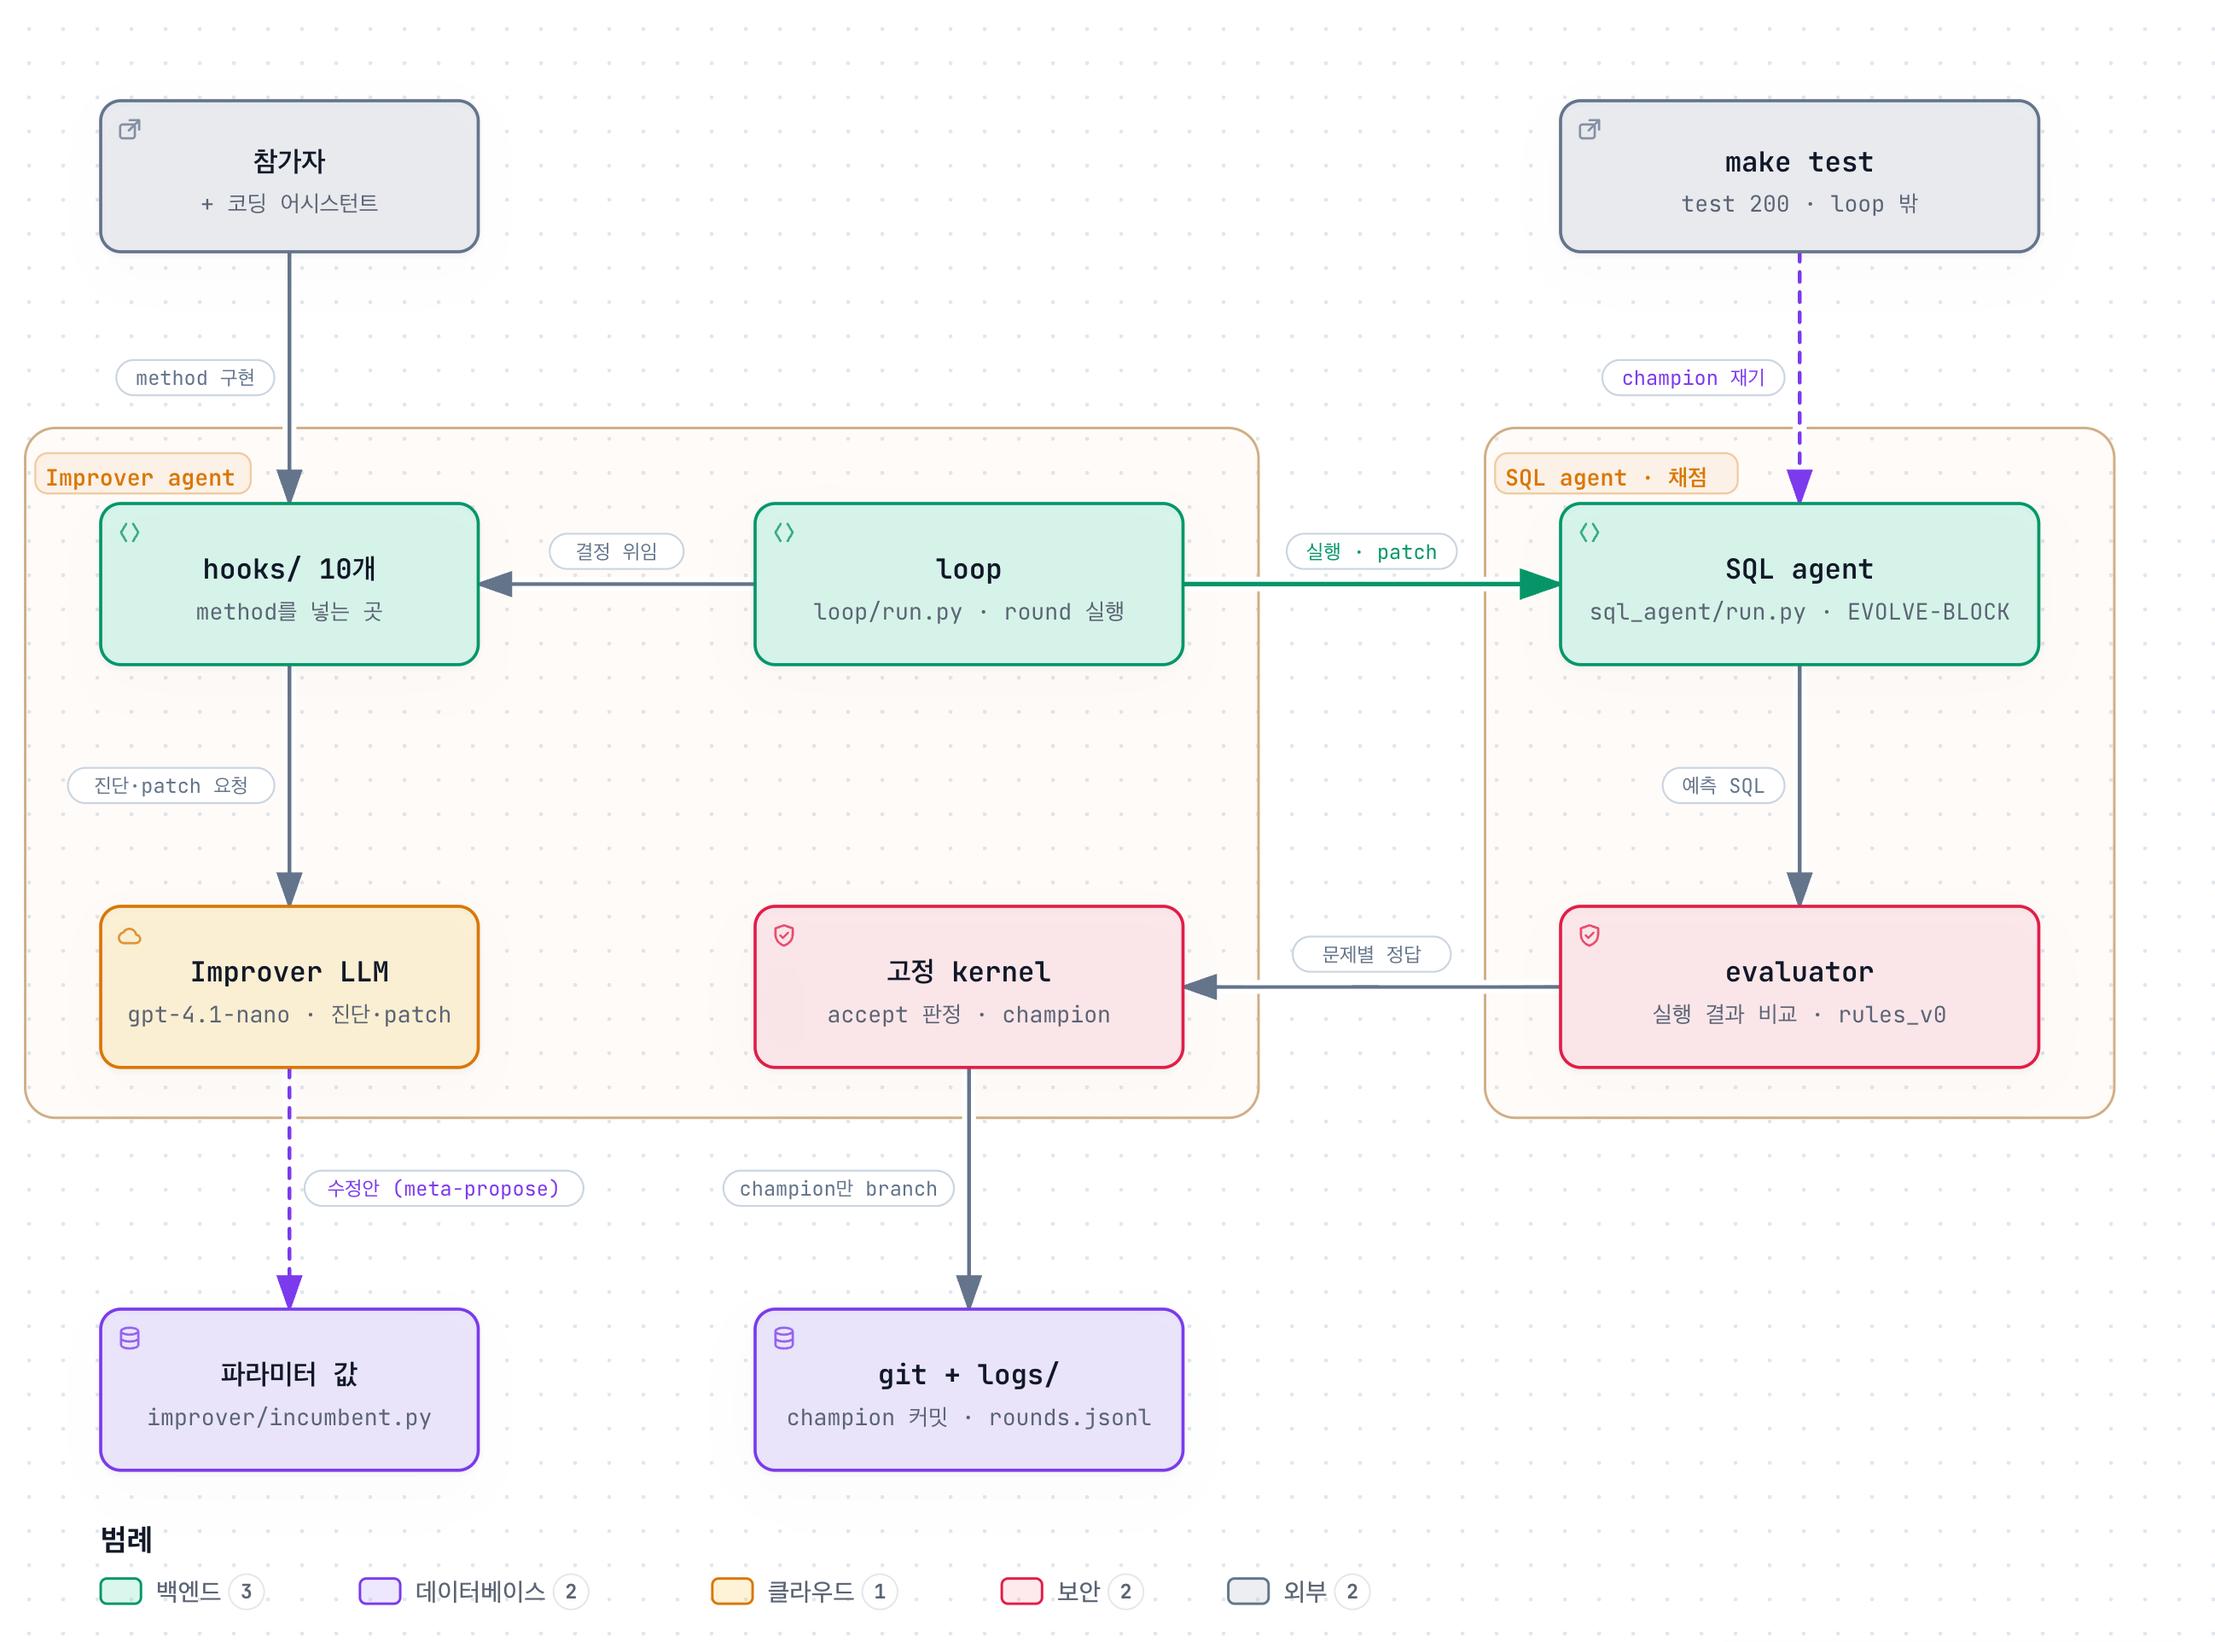
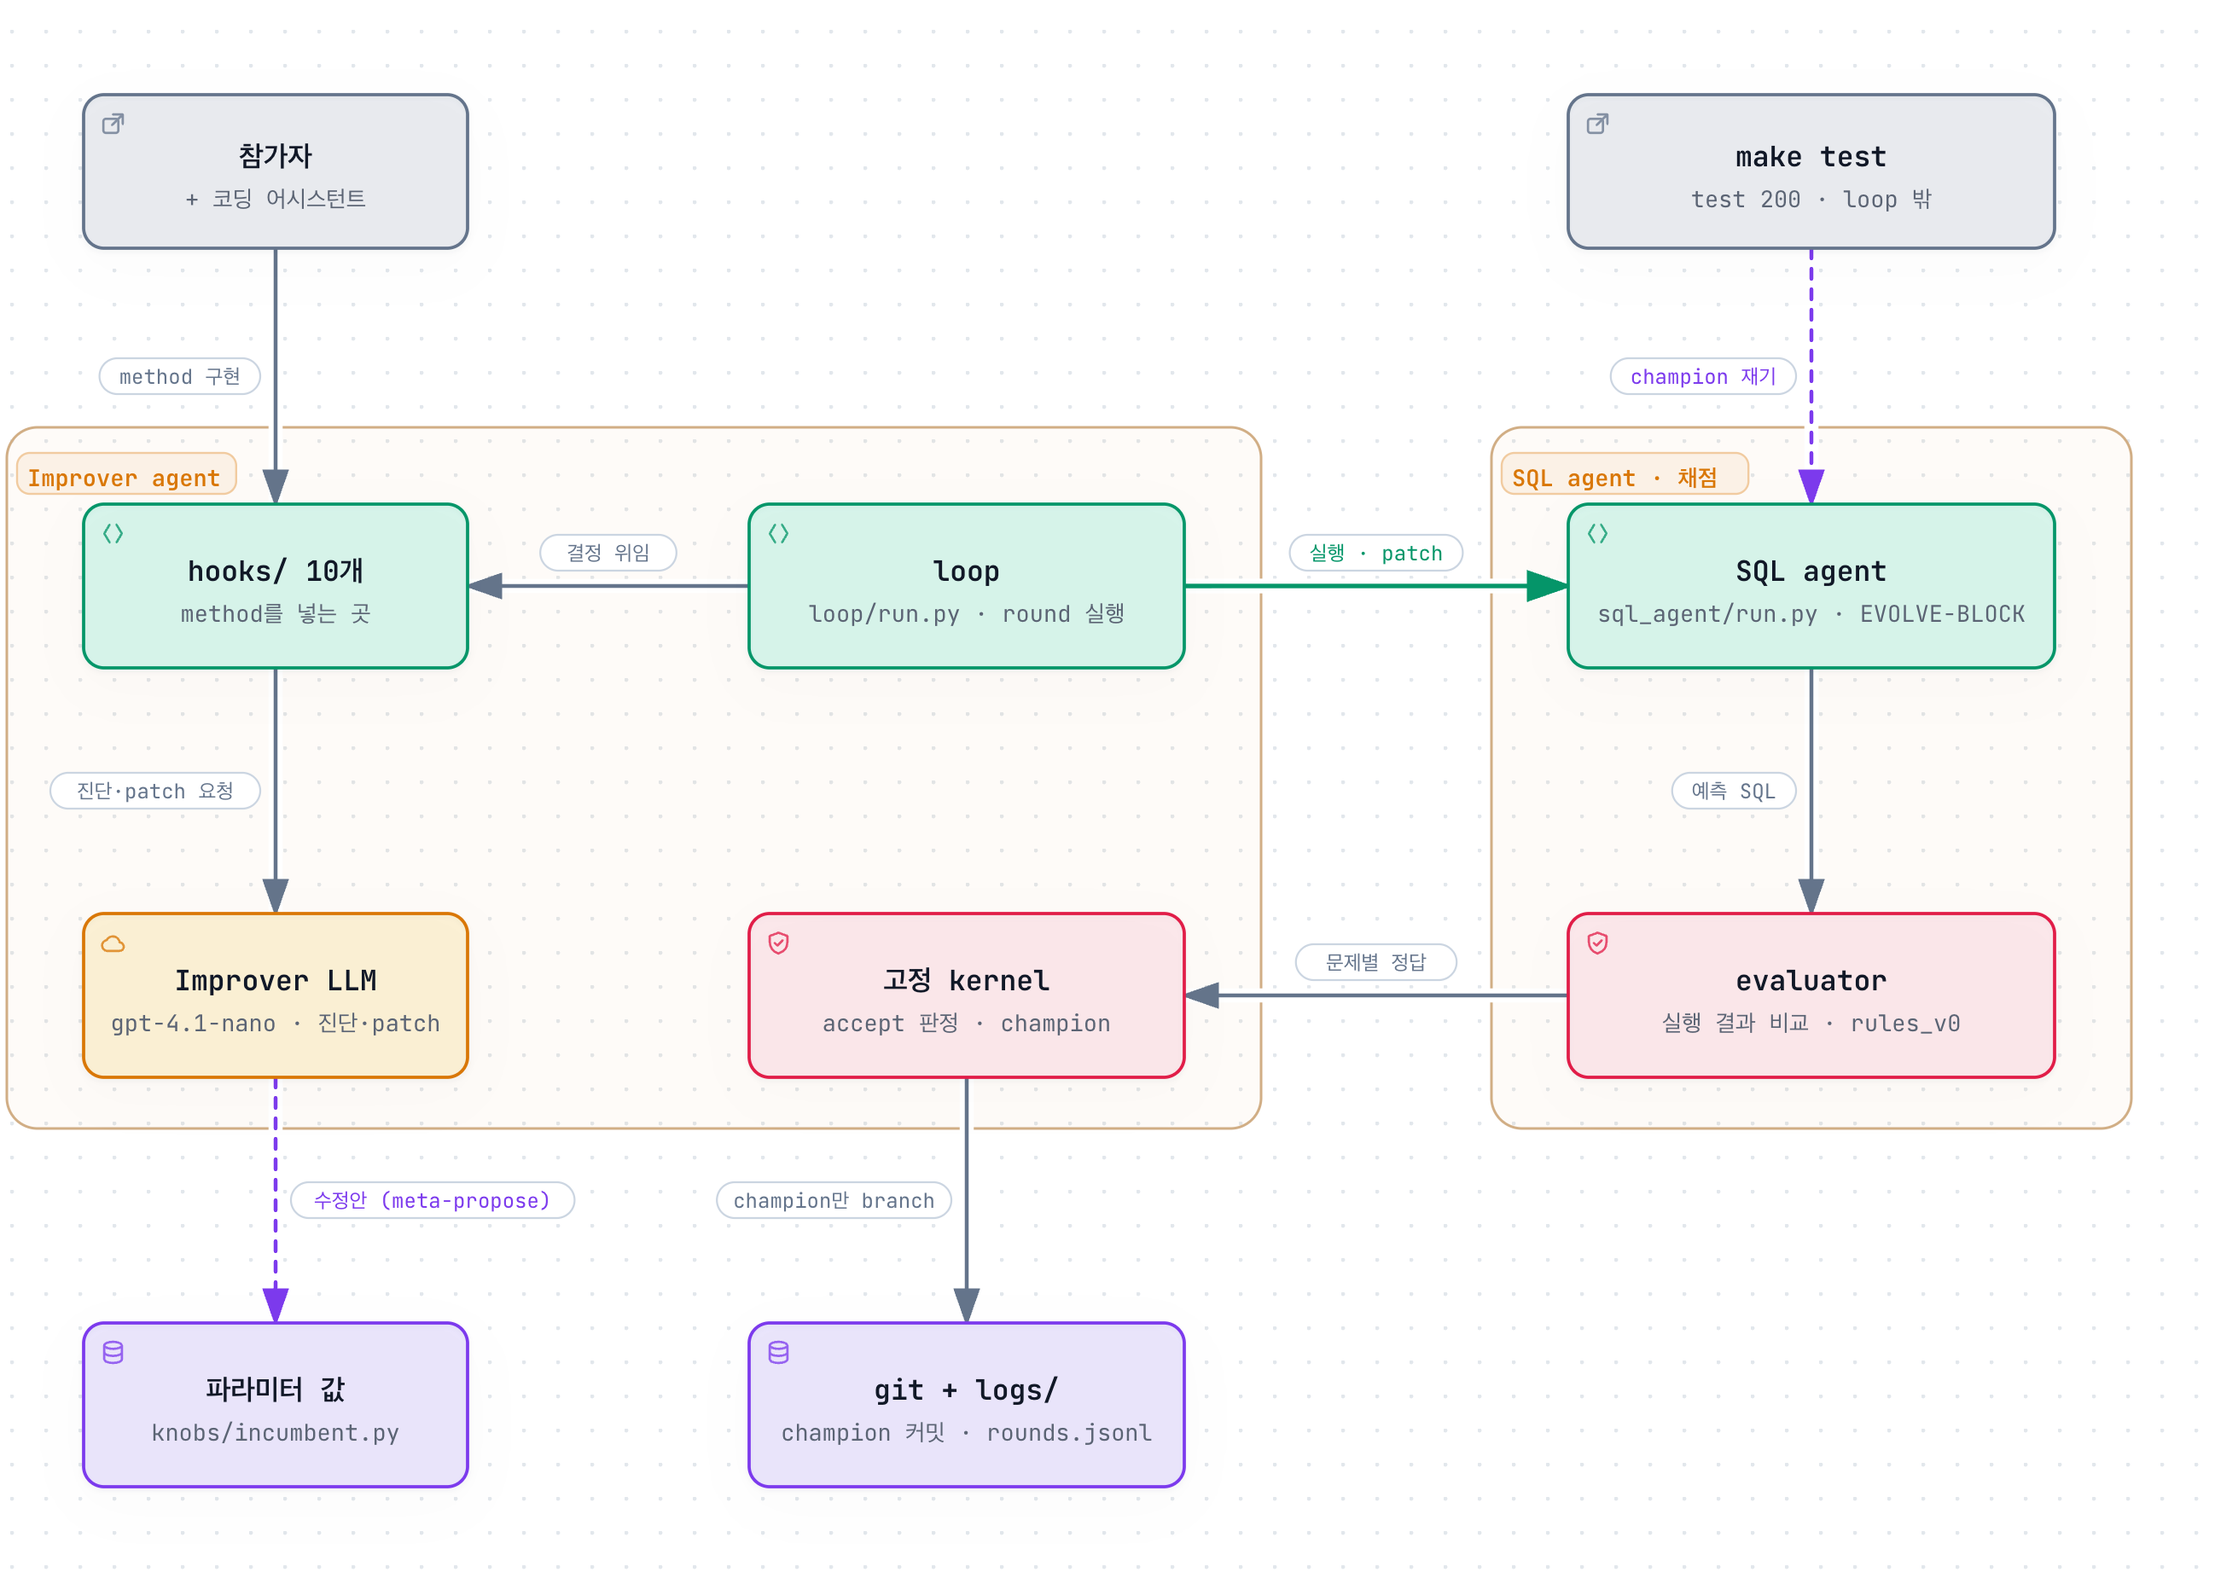
README·그림: knobs/, llm/, scripts/operator/ 경로 반영, evaluator 블록 설명 삭제

diff --git a/README.md b/README.md
@@ -23,7 +23,7 @@
 - `config.yaml`의 `editable_blocks`에 적은 블록만 고칠 수 있다.
   - 3주차까지 `[prompt]`, 4주차부터 `[prompt, code]`. 연 블록은 닫지 않는다.
   - 둘 이상 열려 있으면 어느 블록을 고칠지 Improver agent가 자기 accept 기록으로 고른다 (`hooks/on_round_start.py`).
-- `evaluator` 블록(`evaluator/rules.py`)도 있지만 열지 않는다. 판정은 고정 복사본 `rules_v0`로 하므로 열어도 점수에 영향이 없다.
+- 채점 규칙(`evaluator/rules_v0.py`)은 블록이 아니다. 고정이라 Improver agent가 기준을 느슨하게 바꿔 점수만 올릴 수 없다.
 
 ## 1. 10분 안에
 
@@ -159,7 +159,7 @@ hook 안에서 할 수 있는 것:
 - `data/test.json` 열기
 - `sql_agent/run.py`의 EVOLVE-BLOCK을 사람이 고치기 (SQL agent 변경은 patch 경로로만)
 - `loop/*.py`·`evaluator/`·`scripts/test_eval.py` 고치기 (고정. `loop/run.py`에 노드를 더하는 B만 예외)
-- `improver/incumbent.py`를 사람이 직접 고치기 (Improver agent의 수정안을 `make meta-adopt`로만)
+- `knobs/incumbent.py`를 사람이 직접 고치기 (Improver agent의 수정안을 `make meta-adopt`로만)
 
 예: Reflexion
 
@@ -174,16 +174,16 @@ round, parent, 대상 EVOLVE-BLOCK 내용, before 평가 결과(문제별 정오
 | 경로 | 하는 일 | 누가 고치나 |
 |---|---|---|
 | `sql_agent/run.py` | SQL agent (LangGraph, 위 2) | Improver agent (`editable_blocks`에 적힌 EVOLVE-BLOCK만) |
-| `sql_agent/llm.py`, `schema.py` | LLM 호출, 스키마 텍스트 | 사람 |
+| `sql_agent/schema.py` | 스키마 텍스트 | 사람 |
+| `llm/` | LLM 클라이언트. SQL agent와 Improver LLM이 함께 쓴다 (provider 설정, 응답 캐시, mock) | 사람 |
 | `evaluator/evaluate.py` | SQL 실행 결과를 정답과 비교 | 고정 |
-| `evaluator/rules.py` | `evaluator` EVOLVE-BLOCK. 판정에 쓰지 않는다 | 열지 않는다 |
-| `evaluator/rules_v0.py` | 채점 규칙 (고정 복사본). accept·champion·meta·test 판정 | 고정 |
+| `evaluator/rules_v0.py` | 채점 규칙. accept·champion·meta·test 판정 모두 이것으로 | 고정 |
 | `loop/run.py` | round loop. LangGraph `StateGraph` (위 3) | 고정 (B는 예외, 아래 6) |
 | `loop/kernel.py` | 고정 kernel: 최종 accept 판정, champion 규칙, 파라미터(KNOBS) 검사, 고정 파일 hash | 고정 |
 | `loop/patch.py` | EVOLVE-BLOCK 교체, AST guard, patch 정규화 | 고정 |
 | `loop/archive.py` | git commit/checkout, champion 추적 | 고정 |
 | `loop/meta.py` | Improver agent 자기 개선: `meta-propose` / `meta-eval` / `meta-adopt` (아래 7) | 고정 |
-| `improver/incumbent.py` | Improver agent의 파라미터 값 (`IMPROVER = {...}`, 데이터만) | Improver agent (수정안) → 각자 채택 |
+| `knobs/incumbent.py` | Improver agent의 파라미터 값 (`IMPROVER = {...}`, 데이터만). `v0.py`는 처음 값, `challenger.py`는 `make meta-propose`의 수정안 | Improver agent (수정안) → 각자 채택 |
 | `loop/prompts/` | 진단·patch 프롬프트 | 사람 (8주차에 goal 바꾸기) |
 | `hooks/*.py` | 결정 지점 10개. **매주 method는 이 중 하나의 본문을 바꾼다** | 각자 |
 | `methods/` | hook에서 부르는 새 모듈 (아래 6의 A). 처음에는 없고 필요할 때 만든다 | 각자 |
@@ -191,7 +191,7 @@ round, parent, 대상 EVOLVE-BLOCK 내용, before 평가 결과(문제별 정오
 | `logs/rounds.jsonl` | round당 한 줄 | loop |
 | `logs/archive.json` | champion·점수·시도한 patch 기록. **지우지 않는다** (지우면 지금 commit에서 다시 시작해 champion 기록을 잃는다) | loop |
 | `refs/rsi/*` (git) | 평가한 patch commit. branch(HEAD)는 champion일 때만 움직여서, 거부된 patch가 내 commit·`git pull`에 섞이지 않는다 | loop |
-| `scripts/` | test 평가, 결과 표, 데이터를 만든 스크립트(위키 데이터 구성) | — |
+| `scripts/` | test 평가(`test_eval.py`), 결과 표(`results.py`). `scripts/operator/`는 운영자가 데이터를 만들 때 쓴 도구 (위키 데이터 구성) | — |
 | `examples/` | 논문 메소드를 hook으로 구현해 실제로 돌려 본 예시(3·6·7·8주차)와 실측 결과 | 참고용 (복사해서 씀) |
 | `docs/` | README 그림. 원본은 `docs/diagrams/` | — |
 
@@ -277,9 +277,9 @@ def build_prompt(ctx):
 ```
 
 - 타입: `int`, `float`, `enum`(선택지 목록), `str`, `bool`. 범위 밖 값은 kernel이 기본값으로 되돌린다.
-- 값은 `improver/incumbent.py`의 `IMPROVER = {...}`에 있다. 주차가 쌓이면 파라미터도 쌓인다.
+- 값은 `knobs/incumbent.py`의 `IMPROVER = {...}`에 있다. 주차가 쌓이면 파라미터도 쌓인다.
 - 명령은 위 1의 `make meta-propose` / `make meta-eval` / `make meta-adopt`. 판정이 ADOPT가 아니면 채택에 `FORCE=1 REASON="..."`가 필요하다.
-- 8주차: `make meta-eval FILE=improver/v0.py SEED=9000`으로 처음 방법과 지금 방법을 짝 비교한다.
+- 8주차: `make meta-eval FILE=knobs/v0.py SEED=9000`으로 처음 방법과 지금 방법을 짝 비교한다.
 
 판정 카드 읽는 법, `meta-eval`이 하는 일, 비용은 위키 [Improver 자기 개선](https://github.com/pko89403/rsi-study-starter/wiki/Improver-자기-개선)에 있다.
 
